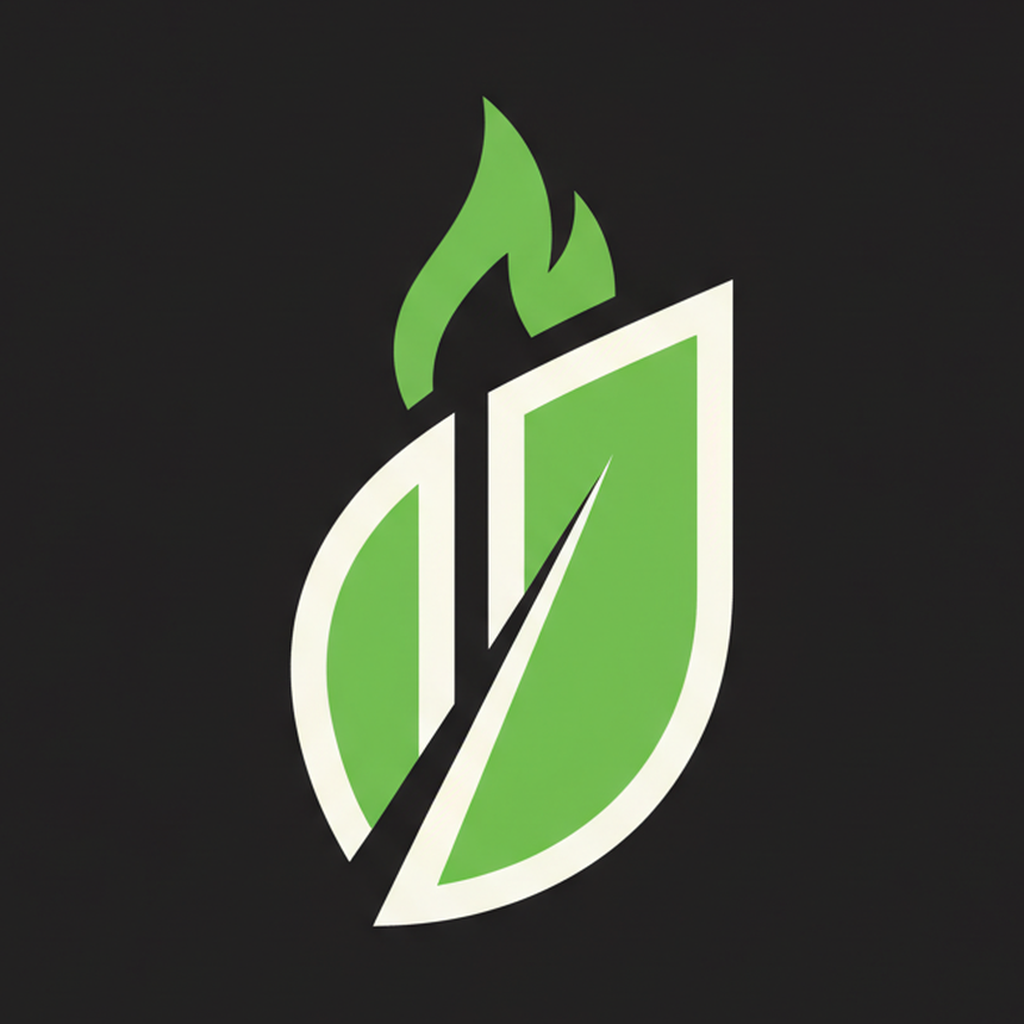
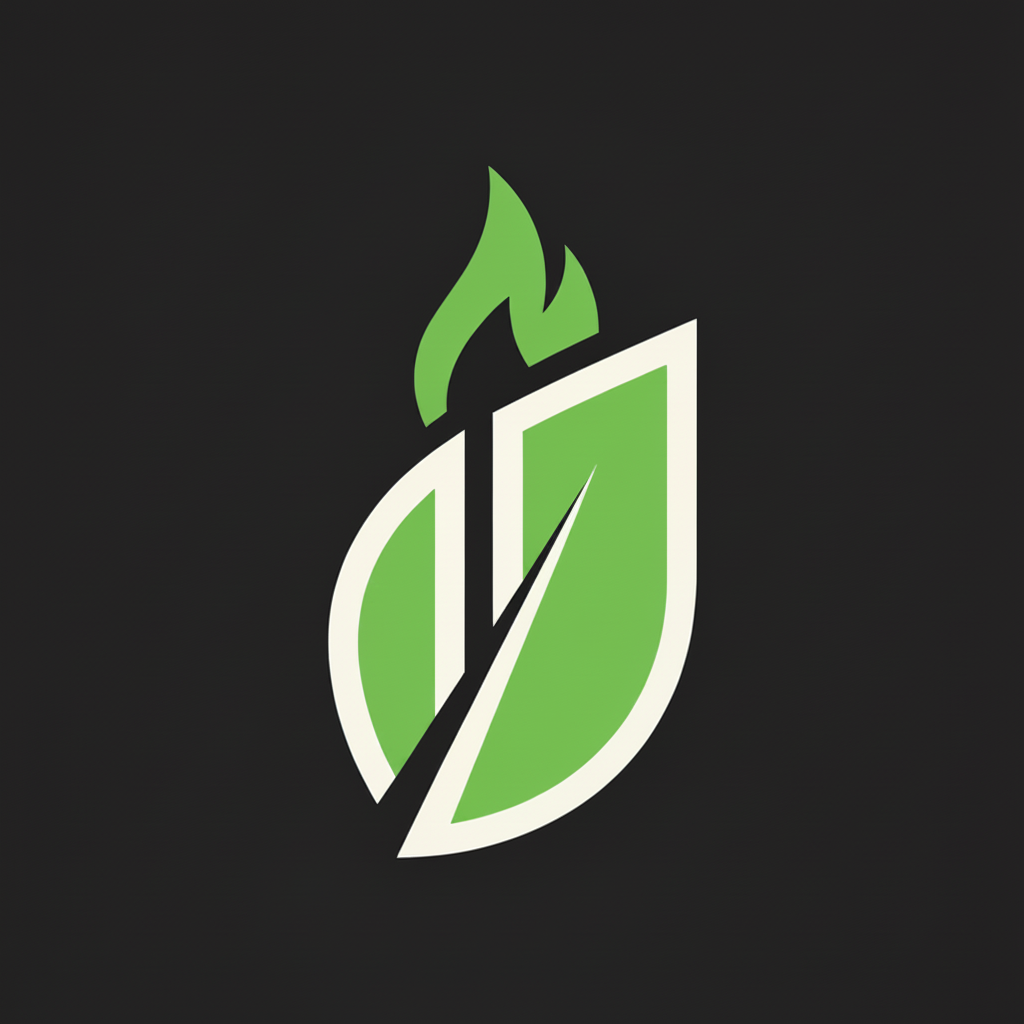
TestFlight feedback fixes: UI polish, MES improvements, scoring fixes
- Fix recipe footer overlapping tab bar (bottom: 90 with fill view)
- Fix header centering on sub-pages (AppScreenHeader absolute positioning)
- Add weekly MES bar chart to MES Breakdown page
- Exclude prep components from MES scoring (backend + frontend)
- Remove MES badge from prep components in logged meals
- Fix flex meals calculation to match backend (was 9, now 4)
- Fix FuelSettingsSheet flex estimation formula
- Add Settings page header with back button
- Remove environment label from settings
- Fix homepage recipe navigation to stay in home tab stack
- Add leaf/flash icons to Fuel/MES compact badges for differentiation
- Show Fuel 100 fallback for recipe/meal_plan sourced logs
- Remove Quick Actions grid cards (accessible from Meals tab)
- Remove recommended pairing from scan results
- Fix scan title truncation (numberOfLines 1→3, flex: 1)
- Change chat "Swap ingredient" to "Healthify" action
- Remove AI assistant sparkle avatar from chat
- Fix MES formula card dark mode (was white background)
- Fix splash screen: seamless dark bg, prevent auto-hide until loaded
- Fix app icon: full-bleed dark background (no rounded rect artifacts)
- Create transparent header logos for light/dark modes
- Clean dessert scoring: no penalty for whole-food desserts
- Fix flex page weekly avg to use actual avg instead of projected
- Add bottom padding to flex and MES breakdown pages

Changed region(s): [[0.2812, 0.0938, 0.7188, 0.9062]]

diff --git a/frontend/app/(tabs)/(home)/index.tsx b/frontend/app/(tabs)/(home)/index.tsx
@@ -1,5 +1,6 @@
 import React, { useEffect, useState, useCallback, useMemo, useRef } from 'react';
 import {
+  ActivityIndicator,
   Alert,
   Animated,
   Image,
@@ -167,6 +168,8 @@ export default function HomeScreen() {
   const [loggingMealId, setLoggingMealId] = useState<string | null>(null);
   const [recentMeals, setRecentMeals] = useState<any[]>([]);
   const [loggedMealIds, setLoggedMealIds] = useState<Set<string>>(new Set());
+  const [isInitialLoading, setIsInitialLoading] = useState(true);
+  const [loadError, setLoadError] = useState(false);
 
   const weekDays = useMemo(() => {
     const now = new Date();
@@ -248,11 +251,14 @@ export default function HomeScreen() {
     try {
       const data = await nutritionApi.getDaily(date);
       if (data) setDailySummary(data);
-    } catch {}
+    } catch {
+      setLoadError(true);
+    }
   };
 
   const onRefresh = useCallback(async () => {
     setRefreshing(true);
+    setLoadError(false);
     // Reset meal plan hasLoaded so it reloads
     useMealPlanStore.setState({ hasLoaded: false });
     await Promise.all([
@@ -292,15 +298,17 @@ export default function HomeScreen() {
   };
 
   useEffect(() => {
-    loadRecommended();
-    loadCurrentPlan();
-    loadDailyNutrition(selectedDayKey);
-    fetchMetabolic(selectedDayKey);
-    fetchFuelDaily(selectedDayKey);
-    fetchFuelWeekly(selectedDayKey);
-    fetchFlexSuggestions(selectedDayKey);
-    fetchHealthPulse(selectedDayKey);
-    loadRecentMeals();
+    Promise.all([
+      loadRecommended(),
+      loadCurrentPlan(),
+      loadDailyNutrition(selectedDayKey),
+      fetchMetabolic(selectedDayKey),
+      fetchFuelDaily(selectedDayKey),
+      fetchFuelWeekly(selectedDayKey),
+      fetchFlexSuggestions(selectedDayKey),
+      fetchHealthPulse(selectedDayKey),
+      loadRecentMeals(),
+    ]).finally(() => setIsInitialLoading(false));
   }, []);
 
   useEffect(() => {
@@ -706,7 +714,7 @@ export default function HomeScreen() {
               >
                 <Ionicons name="flame" size={16} color={theme.accent} />
                 {(fuelStreak?.current_streak ?? 0) > 0 && (
-                  <Text style={{ color: theme.accent, fontSize: FontSize.sm, fontWeight: '700' }}>{fuelStreak.current_streak}</Text>
+                  <Text style={{ color: theme.accent, fontSize: FontSize.sm, fontWeight: '700' }}>{fuelStreak?.current_streak}</Text>
                 )}
               </TouchableOpacity>
               <TouchableOpacity
@@ -742,6 +750,20 @@ export default function HomeScreen() {
         scrollEventThrottle={16}
         refreshControl={<RefreshControl refreshing={refreshing} onRefresh={onRefresh} tintColor={theme.primary} />}
       >
+        {isInitialLoading && (
+          <View style={{ alignItems: 'center', justifyContent: 'center', paddingVertical: 120 }}>
+            <ActivityIndicator size="large" color={theme.primary} />
+          </View>
+        )}
+        {loadError && !isInitialLoading && (
+          <TouchableOpacity
+            onPress={() => { setLoadError(false); onRefresh(); }}
+            style={{ flexDirection: 'row', alignItems: 'center', justifyContent: 'center', paddingVertical: 8, marginHorizontal: Spacing.xl, marginBottom: 4, backgroundColor: theme.warning + '18', borderRadius: BorderRadius.md }}
+          >
+            <Ionicons name="cloud-offline-outline" size={14} color={theme.warning} style={{ marginRight: 6 }} />
+            <Text style={{ fontSize: FontSize.sm, color: theme.warning }}>Some data couldn't load. Tap to retry.</Text>
+          </TouchableOpacity>
+        )}
         {/* Header */}
         <Animated.View
           style={[
@@ -765,7 +787,7 @@ export default function HomeScreen() {
               >
                 <Ionicons name="flame" size={16} color={theme.accent} />
                 {(fuelStreak?.current_streak ?? 0) > 0 && (
-                  <Text style={{ color: theme.accent, fontSize: FontSize.sm, fontWeight: '700' }}>{fuelStreak.current_streak}</Text>
+                  <Text style={{ color: theme.accent, fontSize: FontSize.sm, fontWeight: '700' }}>{fuelStreak?.current_streak}</Text>
                 )}
               </TouchableOpacity>
               <TouchableOpacity

diff --git a/frontend/app/(tabs)/profile/settings.tsx b/frontend/app/(tabs)/profile/settings.tsx
@@ -82,17 +82,25 @@ export default function SettingsScreen() {
     }
   }, [budget]);
 
+  const [isSavingWeights, setIsSavingWeights] = useState(false);
   const saveBudgetWeights = async () => {
     const total = proteinW + fiberW + sugarW;
     const pw = proteinW / total;
     const fw = fiberW / total;
     const sw = sugarW / total;
-    await updateBudget({
-      weight_protein: Math.round(pw * 100) / 100,
-      weight_fiber: Math.round(fw * 100) / 100,
-      weight_sugar: Math.round(sw * 100) / 100,
-    });
-    setShowBudgetEditor(false);
+    setIsSavingWeights(true);
+    try {
+      await updateBudget({
+        weight_protein: Math.round(pw * 100) / 100,
+        weight_fiber: Math.round(fw * 100) / 100,
+        weight_sugar: Math.round(sw * 100) / 100,
+      });
+      setShowBudgetEditor(false);
+    } catch {
+      Alert.alert('Error', 'Failed to save weights. Please try again.');
+    } finally {
+      setIsSavingWeights(false);
+    }
   };
 
   const themeOptions: { id: 'system' | 'light' | 'dark'; label: string; icon: keyof typeof Ionicons.glyphMap }[] = [
@@ -191,13 +199,13 @@ export default function SettingsScreen() {
             {
               icon: 'restaurant' as const,
               label: 'Liked Proteins',
-              desc: (user?.protein_preferences?.likes?.length ? user.protein_preferences.likes.join(', ') : null) || 'Not set',
+              desc: (user?.protein_preferences?.liked?.length ? user.protein_preferences.liked.join(', ') : null) || 'Not set',
               section: 'liked_proteins',
             },
             {
               icon: 'remove-circle' as const,
               label: 'Proteins to Avoid',
-              desc: (user?.protein_preferences?.dislikes?.length ? user.protein_preferences.dislikes.join(', ') : null) || 'None',
+              desc: (user?.protein_preferences?.disliked?.length ? user.protein_preferences.disliked.join(', ') : null) || 'None',
               section: 'disliked_proteins',
             },
             {
@@ -564,6 +572,7 @@ export default function SettingsScreen() {
                           style: 'destructive',
                           onPress: async () => {
                             try {
+                              Alert.alert('Deleting...', 'Please wait while we delete your account.');
                               await authApi.deleteAccount();
                               logout();
                               router.replace('/(auth)/login');

diff --git a/frontend/app/scan/index.tsx b/frontend/app/scan/index.tsx
@@ -1871,35 +1871,6 @@ export default function ScanScreen() {
           )}
         </View>
 
-        {mealResult.pairing_opportunity && mealResult.pairing_recommended_title && mealResult.pairing_projected_mes != null && (
-          <View style={[styles.resultSection, { backgroundColor: theme.surface, borderColor: theme.border }]}>
-            <Text style={[styles.sectionHeading, { color: theme.text }]}>Recommended pairing</Text>
-            <View style={[styles.pairingPreviewCard, { backgroundColor: theme.surfaceElevated, borderColor: theme.border }]}>
-              <View style={styles.pairingPreviewHeader}>
-                <View style={{ flex: 1 }}>
-                  <Text style={[styles.pairingPreviewTitle, { color: theme.text }]}>{mealResult.pairing_recommended_title}</Text>
-                  <Text style={[styles.pairingPreviewCopy, { color: theme.textSecondary }]}>
-                    {mealResult.pairing_timing === 'before_meal' ? 'Best before the meal' : 'Best with the meal'}
-                  </Text>
-                </View>
-                <View style={[styles.pairingDeltaPill, { backgroundColor: theme.primaryMuted }]}>
-                  <Text style={[styles.pairingDeltaText, { color: theme.primary }]}>
-                    +{Math.round(mealResult.pairing_projected_delta || 0)} MES
-                  </Text>
-                </View>
-              </View>
-              <Text style={[styles.pairingPreviewMes, { color: theme.text }]}>
-                {mealResult.mes ? Math.round(mealResult.mes.score) : '--'} {'->'} {Math.round(mealResult.pairing_projected_mes)}
-              </Text>
-              {!!mealResult.pairing_reasons?.length && (
-                <Text style={[styles.pairingPreviewCopy, { color: theme.textSecondary }]}>
-                  {mealResult.pairing_reasons.join(' • ')}
-                </Text>
-              )}
-            </View>
-          </View>
-        )}
-
         {/* ── Tips — collapsible, merged upgrade + recovery ── */}
         {((mealResult.upgrade_suggestions || []).length > 0 || (mealResult.recovery_plan || []).length > 0) && (
           <View style={[styles.resultSection, { backgroundColor: theme.surface, borderColor: theme.border }]}>

diff --git a/frontend/app/(tabs)/(home)/flex.tsx b/frontend/app/(tabs)/(home)/flex.tsx
@@ -98,7 +98,7 @@ export default function FlexScreen() {
   const cleanLogged = budget?.clean_meals_logged ?? 0;
   const cleanTarget = budget?.clean_meals_target ?? 17;
   const cleanPct = budget?.clean_pct ?? settings?.clean_eating_pct ?? 80;
-  const projectedAvg = budget?.projected_weekly_avg ?? 0;
+  const projectedAvg = budget?.avg_fuel_score ?? budget?.projected_weekly_avg ?? 0;
   const mealsLogged = budget?.meals_logged ?? 0;
   const expectedMeals = budget?.expected_meals ?? 21;
   const tier = getTierLabel(projectedAvg);
@@ -131,16 +131,21 @@ export default function FlexScreen() {
       return;
     }
     setIsLogging(true);
-    const result = await logManualFlex({ tag: selectedTag || 'other' });
-    setIsLogging(false);
-    if (result) {
-      setShowLogSheet(false);
-      setSelectedTag(null);
-      setToastMessage(
-        `${result.title} logged! ${result.flex_available} flex meal${result.flex_available !== 1 ? 's' : ''} remaining`,
-      );
-    } else {
-      Alert.alert('Logging Failed', 'Something went wrong logging your flex meal. Please try again.');
+    try {
+      const result = await logManualFlex({ tag: selectedTag || 'other' });
+      if (result) {
+        setShowLogSheet(false);
+        setSelectedTag(null);
+        setToastMessage(
+          `${result.title} logged! ${result.flex_available} flex meal${result.flex_available !== 1 ? 's' : ''} remaining`,
+        );
+      } else {
+        Alert.alert('Logging Failed', 'Something went wrong logging your flex meal. Please try again.');
+      }
+    } catch {
+      Alert.alert('Logging Failed', 'Could not log your flex meal. Check your connection and try again.');
+    } finally {
+      setIsLogging(false);
     }
   };
 

diff --git a/frontend/app/(tabs)/chat/index.tsx b/frontend/app/(tabs)/chat/index.tsx
@@ -769,13 +769,7 @@ export default function ChatScreen() {
                       : [styles.messageBubble, styles.assistantBubble]
                   }
                 >
-                {msg.role === 'assistant' && (
-                  <View style={styles.assistantHeader}>
-                    <LinearGradient colors={theme.gradient.primary} style={styles.miniIcon}>
-                      <Ionicons name="sparkles" size={10} color="#FFF" />
-                    </LinearGradient>
-                  </View>
-                )}
+                {/* Assistant avatar removed for cleaner look */}
                 {msg.role === 'user' ? (
                   <LinearGradient
                     colors={['#22C55E', '#16A34A'] as const}
@@ -1217,12 +1211,7 @@ export default function ChatScreen() {
           }}
           ListFooterComponent={isLoading ? (
             <Animated.View style={[styles.messageBubble, styles.assistantBubble, { width: '100%' }]}>
-              <View style={styles.assistantHeader}>
-                <LinearGradient colors={theme.gradient.primary} style={styles.miniIcon}>
-                  <Ionicons name="sparkles" size={10} color="#FFF" />
-                </LinearGradient>
-                <Text style={[styles.assistantLabel, { color: theme.primary }]}>Fuel Coach</Text>
-              </View>
+              {/* Assistant avatar removed for cleaner look */}
               <View style={[styles.bubbleContent, { backgroundColor: theme.surfaceElevated, borderWidth: 1, borderColor: theme.border, overflow: 'hidden' }]}>
                 {streamingText ? (
                   streamingText.trimStart().startsWith('{') || streamingText.trimStart().startsWith('```') ? (

diff --git a/frontend/components/GlassTabBar.tsx b/frontend/components/GlassTabBar.tsx
@@ -71,9 +71,9 @@ export function GlassTabBar({ state, descriptors, navigation }: BottomTabBarProp
 
   // Theme-adaptive colours
   const blurTint = isDark ? 'dark' : 'light';
-  const tintBg = isDark ? 'rgba(10, 10, 15, 0.42)' : 'rgba(248, 248, 248, 0.68)';
+  const tintBg = isDark ? 'rgba(10, 10, 15, 0.65)' : 'rgba(248, 248, 248, 0.78)';
   const borderCol = isDark ? 'rgba(255,255,255,0.08)' : 'rgba(0,0,0,0.06)';
-  const inactiveColor = isDark ? 'rgba(255,255,255,0.82)' : CHARCOAL;
+  const inactiveColor = isDark ? 'rgba(255,255,255,0.82)' : theme.textSecondary;
   const pillShadow = Shadows.lg(isDark);
   const plusShadow = Shadows.md(isDark);
   const menuShadow = Shadows.overlay(isDark);

diff --git a/frontend/app/_layout.tsx b/frontend/app/_layout.tsx
@@ -58,7 +58,7 @@ function RootLayout() {
   const currentRootSegment = segments[0];
   const isAuthRoute = currentRootSegment === '(auth)';
   const isOnboardingV2Route = currentRootSegment === 'onboarding-v2';
-  const isOnboardingRoute = isOnboardingV2Route || (isAuthRoute && segments[1] === 'onboarding');
+  const isOnboardingRoute = isOnboardingV2Route || (isAuthRoute && (segments as string[])[1] === 'onboarding');
   const isSubscribeRoute = pathname === '/subscribe';
   const canAccessWithoutPremium = isAuthRoute || isOnboardingV2Route || isSubscribeRoute || pathname === '/';
   const skipBillingGate = __DEV__;

diff --git a/backend/app/services/fuel_score.py b/backend/app/services/fuel_score.py
@@ -187,12 +187,16 @@ def _score_scan(
                 score += 4
                 reasoning.append(f"Includes whole-grain or complex carb sources.")
 
-    # Dessert/sweet penalty — these are flex meals by design
+    # Dessert/sweet penalty — only for processed desserts
     if has_dessert_component:
-        score -= 15
-        score = min(score, 65)
-        flags.append("Dessert / sweet treat")
-        reasoning.append("This is a sweet treat — desserts and sweets are heavily processed by nature.")
+        has_processing_flags = bool(whole_food_flags and any(
+            str((f or {}).get("severity", "")) in ("high", "medium") for f in whole_food_flags
+        ))
+        if has_processing_flags or whole_food_status == "fail":
+            score -= 15
+            score = min(score, 65)
+            flags.append("Dessert / sweet treat")
+            reasoning.append("This dessert contains processed ingredients.")
 
     # ── Whole-food flag penalties (from scan pipeline) ──
     if whole_food_flags:
